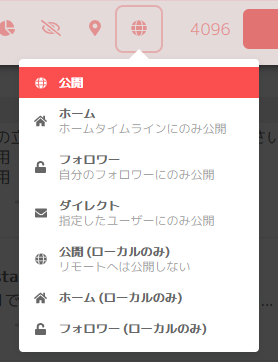
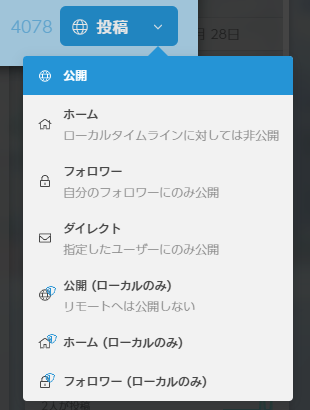
Update images

diff --git a/kantan.md b/kantan.md
@@ -3,20 +3,16 @@
 ## 投稿画面
 ![post](./post.png)
 
-<!-- To Do: 差替
-新しいスクショに
--->
-
 |アイコン|なにができる？|
 |:--:|:--|
-|矢印が生えたなにか|画像などのファイルをアップします → [ドライブ](feature/drive.md)|
+|矢印が生えたはんぺん|画像などのファイルをアップします → [ドライブ](feature/drive.md)|
 |雲|すでにアップロードした画像などを投稿に埋め込めます → [ドライブ](feature/drive.md)|
 |ねこ|ランダムで顔文字が入力されます フグパンチとかできます|
 |グラフ|アンケートができます → [アンケート](feature/enquete.md)|
 |目に斜線|内容を隠します ネタバレ防止とかに使えます|
 |メガホン|実況モードにします|
 |目|年齢別の公開範囲を設定します 現状ハリボテです|
-|地球|公開範囲を変えられます → [公開範囲](#公開範囲)|
+|投稿ボタンのドロップダウン|公開範囲を変えられます → [公開範囲](#公開範囲)|
 
 リンクがある項目はリンク先に詳しい説明があります
 
@@ -26,10 +22,6 @@
 twistaでは投稿を公開する範囲を指定することができます。
 
 ![範囲](./hanni.png)
-
-<!-- To Do: 差替
-新しいスクショに
--->
 
 |公開範囲|概要|
 |:--:|:--|
